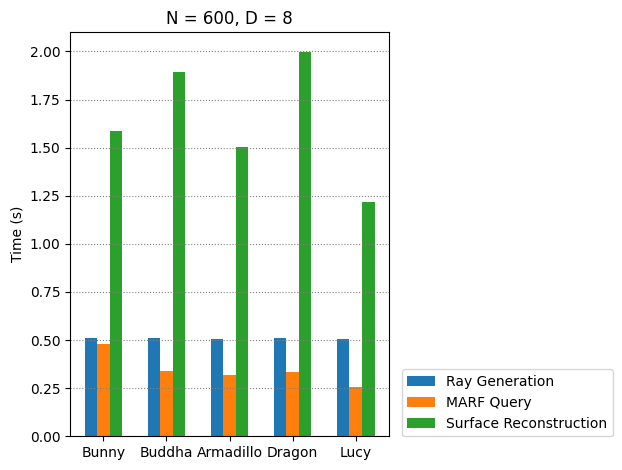
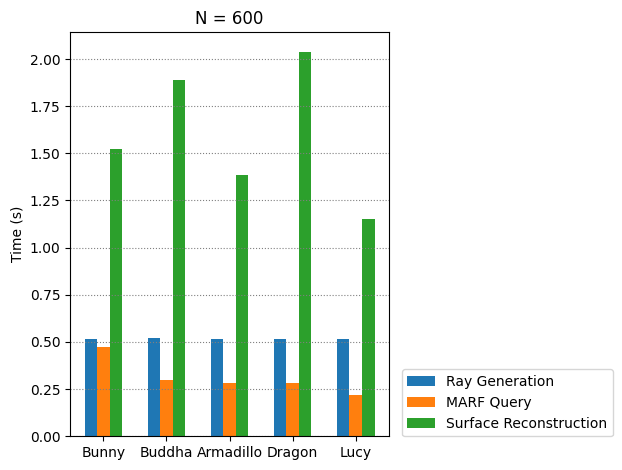
Use torch.no_grad()

diff --git a/analysis/time_object.py b/analysis/time_object.py
@@ -50,19 +50,20 @@ def compute_values() -> tuple[list[str], list[list[float]]]:
 
             ray_end = timer()
 
-            result = model.forward(dict(origins=origins, dirs=dirs), intersections_only = False)
+            with torch.no_grad():
+                result = model.forward(dict(origins=origins, dirs=dirs), intersections_only = False)
 
-            intersections = result[2].cpu()
-            intersection_normals = result[3].cpu()
-            is_intersecting = result[4].cpu()
+                intersections = result[2].cpu()
+                intersection_normals = result[3].cpu()
+                is_intersecting = result[4].cpu()
 
-            is_intersecting = torch.flatten(is_intersecting)
-            intersections = torch.flatten(intersections, end_dim=2)[is_intersecting].detach().numpy()
-            intersection_normals = torch.flatten(intersection_normals, end_dim=2)[is_intersecting].detach().numpy()
+                is_intersecting = torch.flatten(is_intersecting)
+                intersections = torch.flatten(intersections, end_dim=2)[is_intersecting].detach().numpy()
+                intersection_normals = torch.flatten(intersection_normals, end_dim=2)[is_intersecting].detach().numpy()
 
             query_end = timer()
 
-            generated_mesh = utils.poisson_surface_reconstruction(intersections, intersection_normals, 8)
+            utils.poisson_surface_reconstruction(intersections, intersection_normals, 8)
 
             poisson_end = timer()
 
@@ -72,7 +73,7 @@ def compute_values() -> tuple[list[str], list[list[float]]]:
 
             print(f'{(ray_end - ray_start):.3f}\t{(query_end - ray_end):.3f}\t{(poisson_end - query_end):.3f}')
 
-            del origins, dirs, result
+            del origins, dirs, result, intersections, intersection_normals, is_intersecting
             torch.cuda.empty_cache()
             gc.collect()
 
@@ -125,7 +126,7 @@ def plot_results(object_names: list[str], times: list[list[float]]) -> None:
 
     # Formatting the plot
     plt.ylabel('Time (s)')
-    plt.title('N = 600, D = 8')
+    plt.title('N = 600')
     plt.xticks(indices + bar_width, object_names)
     plt.legend(loc=(1.04, 0))
 

diff --git a/analysis/surface_area.py b/analysis/surface_area.py
@@ -43,15 +43,16 @@ def compute_values() -> tuple[list[str], list[int], list[list[float]]]:
             origins = origins.to(device)
             dirs = dirs.to(device)
 
-            result = model.forward(dict(origins=origins, dirs=dirs), intersections_only = False)
+            with torch.no_grad():
+                result = model.forward(dict(origins=origins, dirs=dirs), intersections_only = False)
 
-            intersections = result[2].cpu()
-            intersection_normals = result[3].cpu()
-            is_intersecting = result[4].cpu()
+                intersections = result[2].cpu()
+                intersection_normals = result[3].cpu()
+                is_intersecting = result[4].cpu()
 
-            is_intersecting = torch.flatten(is_intersecting)
-            intersections = torch.flatten(intersections, end_dim=2)[is_intersecting].detach().numpy()
-            intersection_normals = torch.flatten(intersection_normals, end_dim=2)[is_intersecting].detach().numpy()
+                is_intersecting = torch.flatten(is_intersecting)
+                intersections = torch.flatten(intersections, end_dim=2)[is_intersecting].detach().numpy()
+                intersection_normals = torch.flatten(intersection_normals, end_dim=2)[is_intersecting].detach().numpy()
 
             surface_area = utils.poisson_surface_reconstruction(intersections, intersection_normals, 8).get_surface_area()
             surface_areas[i].append(surface_area)

diff --git a/analysis/nearest_neighbor.py b/analysis/nearest_neighbor.py
@@ -45,13 +45,14 @@ def compute_values(filename: str) -> tuple[list[int], list[list[float]]]:
         origins = origins.to(device)
         dirs = dirs.to(device)
 
-        result = model.forward(dict(origins=origins, dirs=dirs), intersections_only = False)
+        with torch.no_grad():
+            result = model.forward(dict(origins=origins, dirs=dirs), intersections_only = False)
 
-        intersections = result[2].cpu()
-        is_intersecting = result[4].cpu()
+            intersections = result[2].cpu()
+            is_intersecting = result[4].cpu()
 
-        is_intersecting = torch.flatten(is_intersecting)
-        intersections = torch.flatten(intersections, end_dim=2)[is_intersecting].detach().numpy()
+            is_intersecting = torch.flatten(is_intersecting)
+            intersections = torch.flatten(intersections, end_dim=2)[is_intersecting].detach().numpy()
 
         distances = utils.nearest_neighbor_distance(intersections)
         nnd.append(distances)

diff --git a/analysis/hit_rate.py b/analysis/hit_rate.py
@@ -48,10 +48,11 @@ def compute_values() -> tuple[list[str], list[int], list[list[float]]]:
             origins = origins.to(device)
             dirs = dirs.to(device)
 
-            result = model.forward(dict(origins=origins, dirs=dirs), intersections_only = False)
-
-            is_intersecting = result[4].cpu().sum().item()
-            hit_rate = is_intersecting / rays_n
+            with torch.no_grad():
+                result = model.forward(dict(origins=origins, dirs=dirs), intersections_only = False)
+                is_intersecting = result[4].cpu().sum().item()
+                hit_rate = is_intersecting / rays_n
+            
             hit_rates[i].append(hit_rate)
             print(str(hit_rate))
 

diff --git a/analysis/time_n.py b/analysis/time_n.py
@@ -51,7 +51,6 @@ def compute_values(filename: str) -> tuple[list[int], list[list[float]]]:
             ray_end = timer()
 
             with torch.no_grad():
-
                 result = model.forward(dict(origins=origins, dirs=dirs), intersections_only = False)
 
                 intersections = result[2].cpu()
